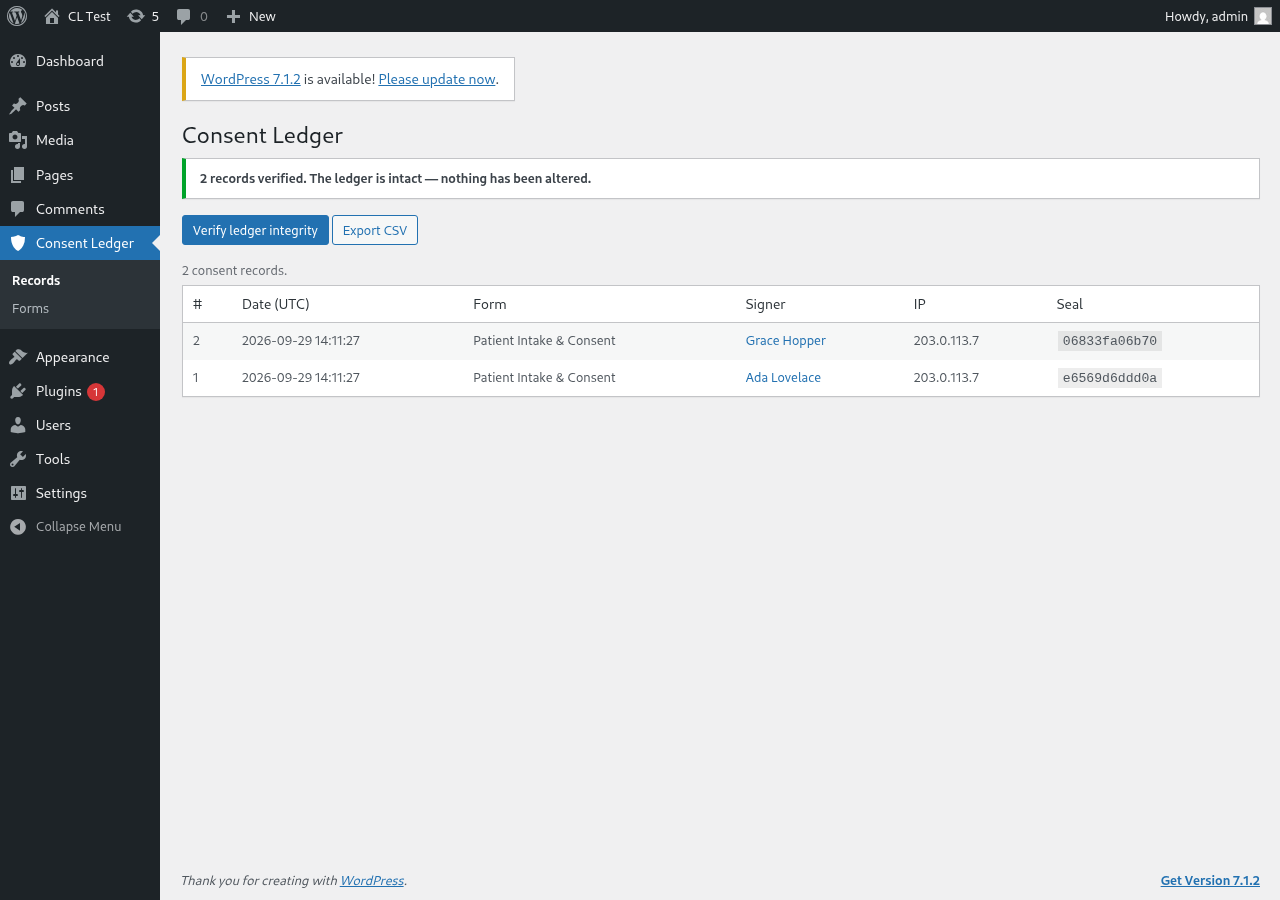
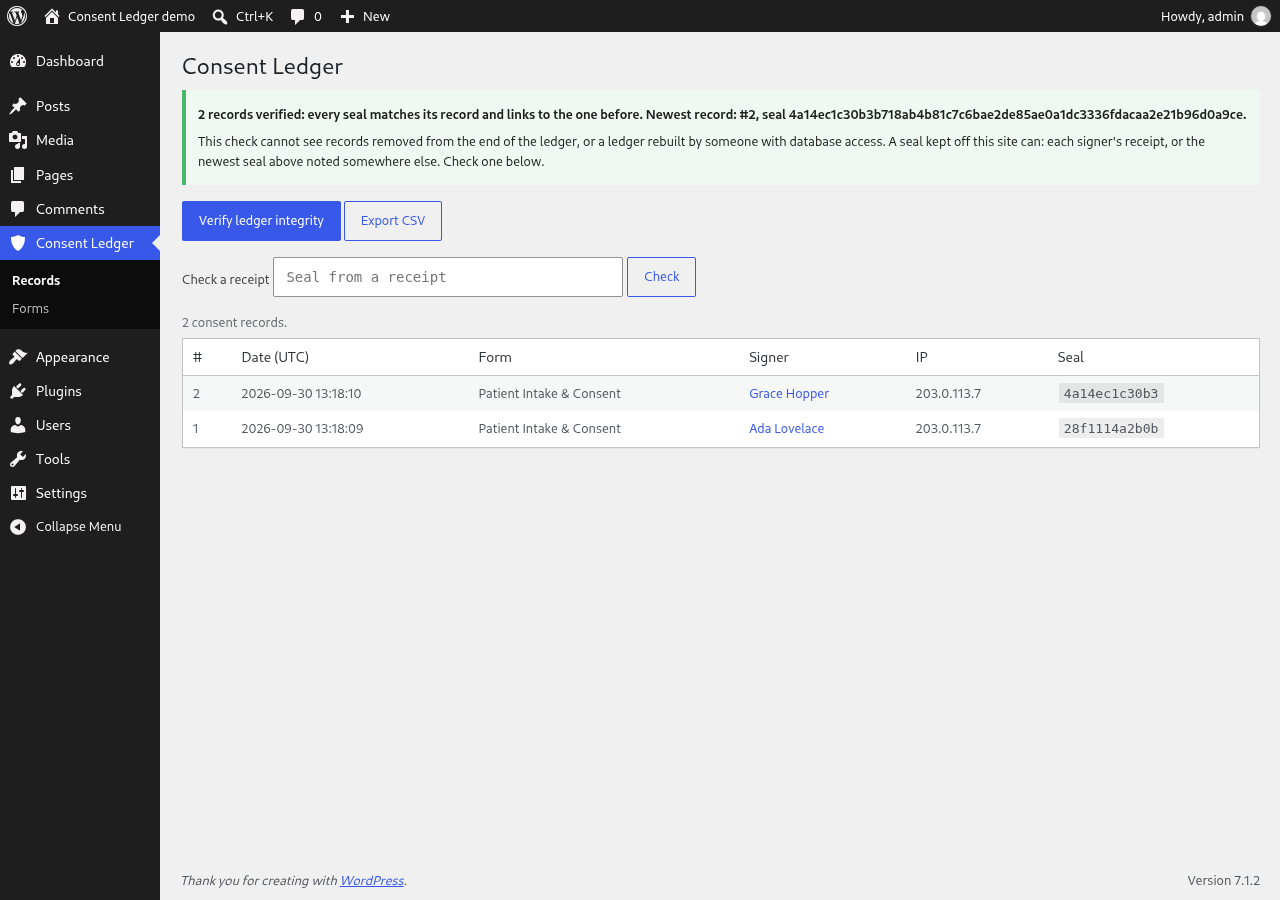
Consent Ledger page: stop saying one click catches any deletion
The chain check cannot see records cut off the end of the ledger, or a chain
rebuilt by someone with database access; 0.2.0 added the receipt check for the
first. The comparison bullet and step 3 now say what Verify finds and name the
receipt check, "defensible" no longer claims "complete", the limits list says it
is not proof against whoever controls the database, and the ledger screenshot
(which showed the removed "nothing has been altered" banner) is retaken on
0.2.0 installed from its zip.

diff --git a/consent-ledger.html b/consent-ledger.html
@@ -140,7 +140,7 @@
                     <ul>
                         <li>Records a sealed, verifiable consent</li>
                         <li>Pins the exact wording shown, forever, per record</li>
-                        <li>One-click check catches any edit, deletion or reorder</li>
+                        <li>One click flags edits and gaps in the chain; each signer&rsquo;s receipt proves theirs is still on file</li>
                         <li>Typed signature, IP, device and UTC time captured</li>
                         <li>Zero external calls — everything stays on your server</li>
                     </ul>
@@ -168,8 +168,8 @@
                     <p>Each record's hash also folds in the hash of the record before it, like numbered, initialled pages in a ledger. The records form a chain, not a loose pile.</p>
                 </div>
                 <div class="cl-step">
-                    <h3>Any change shows</h3>
-                    <p>Edit a record, delete one, or reorder them, and its hash no longer matches — and every record after it breaks too. One click verifies the whole ledger and points to exactly where it broke.</p>
+                    <h3>Changes show</h3>
+                    <p>Edit a record, or delete or reorder one in the middle, and one click shows where the chain fails. Cutting the newest records leaves a chain that still checks out, so each signer&rsquo;s receipt carries the record&rsquo;s full seal, and <em>Check a receipt</em> confirms it is still on file, unchanged.</p>
                 </div>
             </div>
         </div>
@@ -179,7 +179,7 @@
         <h2>See it working</h2>
         <div class="shot-grid">
             <figure class="shot"><img src="images/products/consent-ledger/form.png" alt="The front-end intake and consent form as a patient sees it" width="1280" height="1822" loading="lazy"><figcaption>The intake and consent form, as a patient sees it</figcaption></figure>
-            <figure class="shot"><img src="images/products/consent-ledger/ledger.png" alt="The admin records ledger showing a green banner: two records verified, the ledger is intact, with per-record seals" width="1280" height="900" loading="lazy"><figcaption>The records ledger, with the one-click integrity check</figcaption></figure>
+            <figure class="shot"><img src="images/products/consent-ledger/ledger.png" alt="The admin records ledger after one click on Verify: two records checked, the newest seal, a note on what the check cannot see, and a box to check a receipt's seal" width="1280" height="900" loading="lazy"><figcaption>The records ledger: the one-click check, what it cannot see, and the receipt check</figcaption></figure>
         </div>
     </div></section>
 
@@ -217,7 +217,8 @@
                 <h3>What it is not — plainly</h3>
                 <ul>
                     <li>It is not legal advice, and it does not supply consent wording. Only you know what your practice and jurisdiction require.</li>
-                    <li>"Defensible" means the record is tamper-evident and complete — not that it is automatically legally sufficient. That depends on your wording and your obligations.</li>
+                    <li>"Defensible" means the record is tamper-evident, not that it is automatically legally sufficient. That depends on your wording and your obligations.</li>
+                    <li>It is not proof against whoever controls the database. Someone with full access could rebuild the whole chain so it checks out. Only a seal kept off the site shows that: a signer&rsquo;s receipt, or the newest seal noted somewhere else.</li>
                     <li>It is not, by itself, a HIPAA compliance program. It keeps a better record and stores it only on your server; it does not replace a signed BAA with your host or your own policies.</li>
                 </ul>
             </div>
